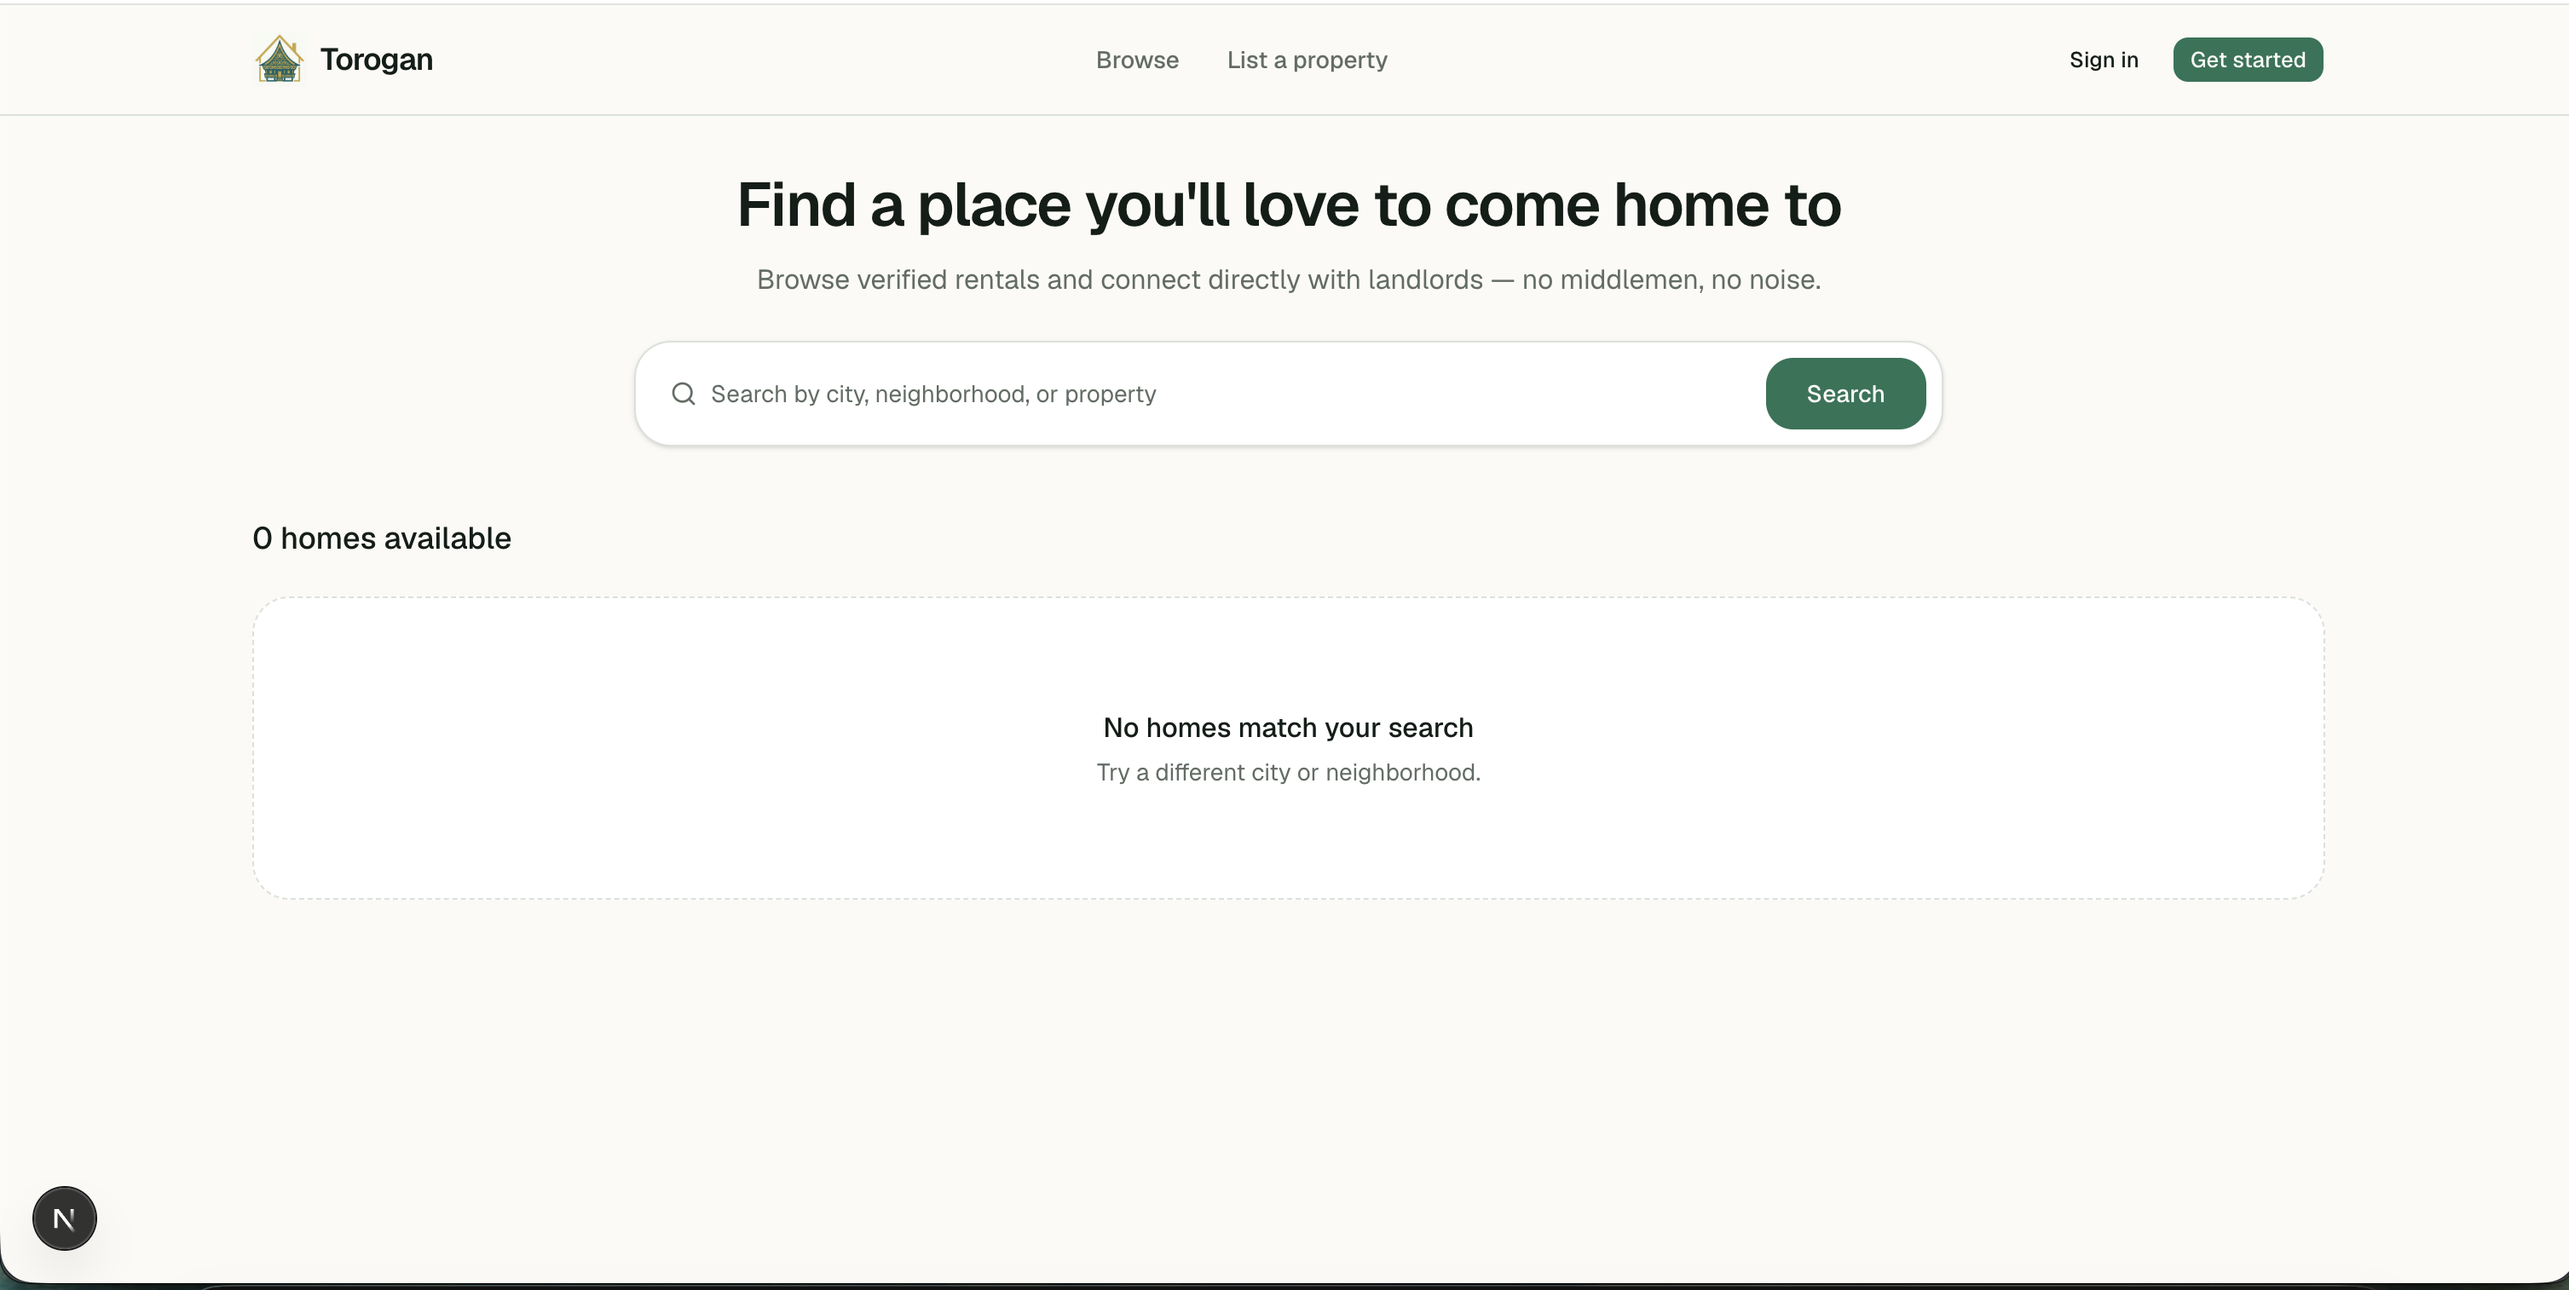
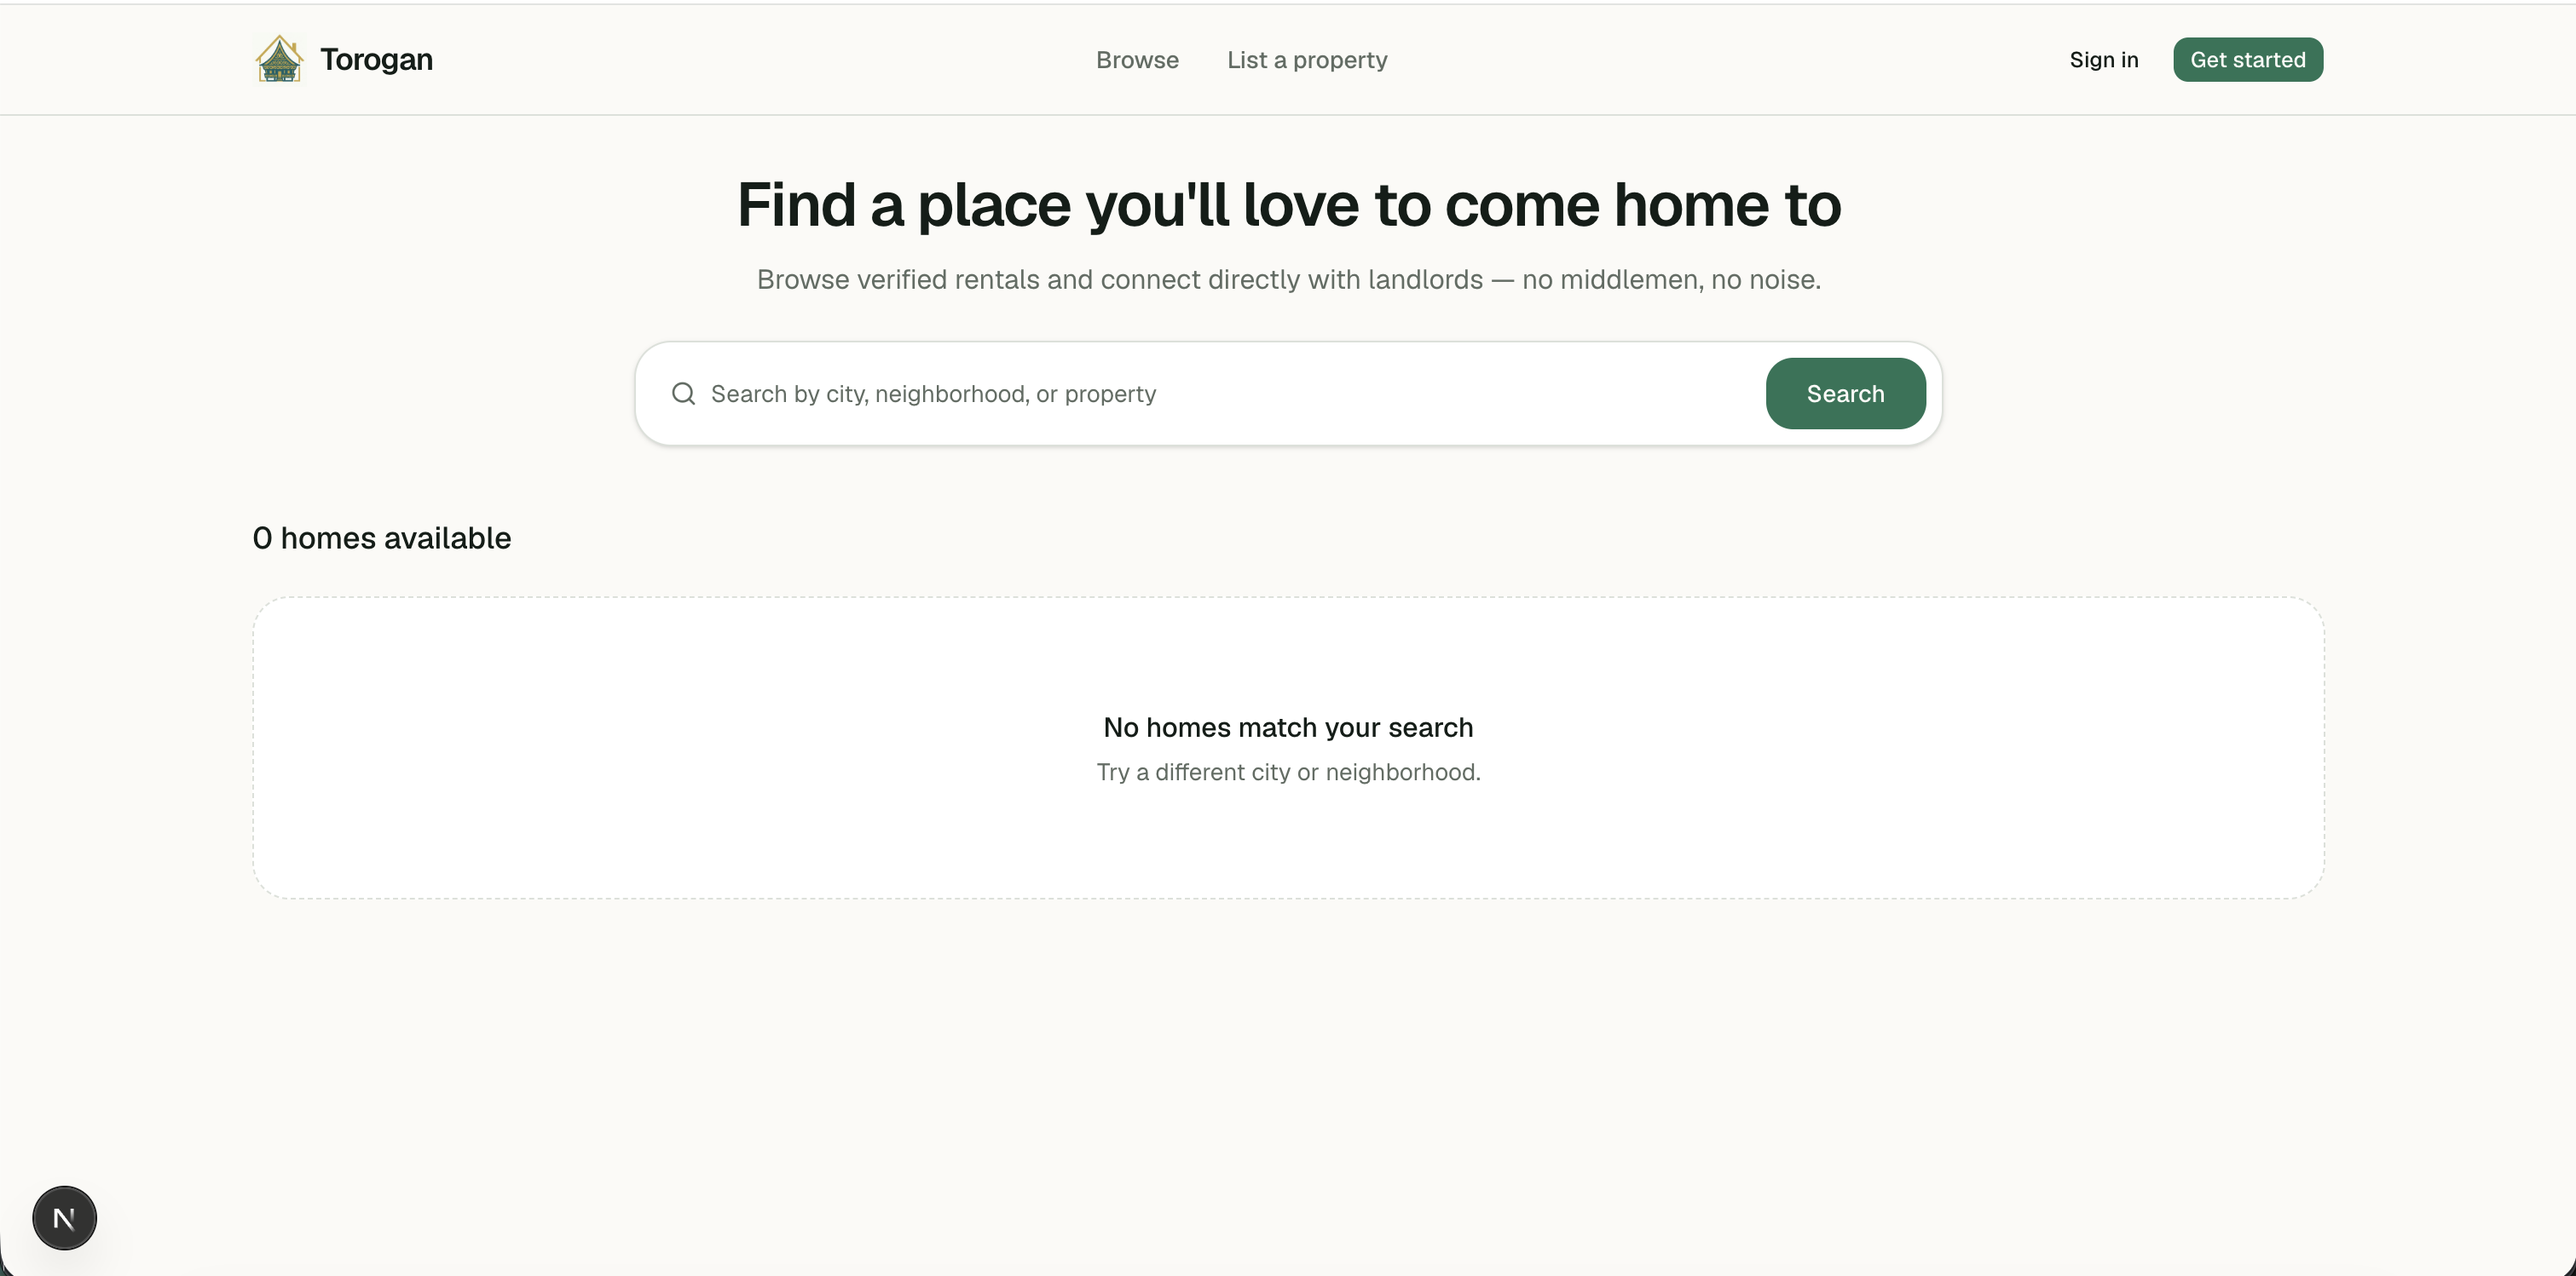
feat: updated projects and torogan photo

diff --git a/src/constants/projects.ts b/src/constants/projects.ts
@@ -15,7 +15,7 @@ export const projects: Project[] = [
     id: 1,
     name: "Torogan",
     description:
-      "An app that bridges people that are searching for a new home with property owners.",
+      "A rental-listing platform for the Philippines — browse verified rentals and connect directly with landlords, no middlemen.",
     githubLink: "https://github.com/sushiAlii/torogan-fe",
     liveLink: "https://www.torogan.com",
     image: "/torogan.png",
@@ -25,6 +25,30 @@ export const projects: Project[] = [
   },
   {
     id: 2,
+    name: "sushi-commit-js",
+    description:
+      "A blazingly fast, zero-overhead, AI-powered CLI utility that inspects your local git diff alterations and automatically crafts precise, structured Conventional Commits. Powered by the lightning-fast efficiency of Bun and Claude Haiku.",
+    githubLink: "https://github.com/sushiAlii/sushi-commit-js",
+    liveLink: "",
+    image: "",
+    technologies: ["Typescript"],
+    category: "CLI",
+    featured: false,
+  },
+  {
+    id: 3,
+    name: "Salsila",
+    description:
+      "Salsila derived from Arabic term 'سلسلة' which means chain, link, or connection. It is a web application that allows users to build and connect geneological trees. Currently, frontend is still pending to be implemented.",
+    githubLink: "https://github.com/sushiAlii/salsila-backend",
+    liveLink: "",
+    image: "",
+    technologies: ["Golang", "PostgreSQL"],
+    category: "Backend",
+    featured: false,
+  },
+  {
+    id: 4,
     name: "Blackscoop Inventory Management System",
     description:
       "A web application for managing inventory for Blackscoop (Saguiaran branch). It allows the users to view the inventory, add items, and update items.",
@@ -36,7 +60,7 @@ export const projects: Project[] = [
     featured: true,
   },
   {
-    id: 3,
+    id: 5,
     name: "Axiefy",
     description:
       "A hackathon project from Supabase, in collaboration with my friend, Carlo. It is a web application that allows Axie Infinity managers to manage their scholars' earnings.",
@@ -49,19 +73,7 @@ export const projects: Project[] = [
     featured: true,
   },
   {
-    id: 4,
-    name: "Salsila",
-    description:
-      "Salsila derived from Arabic term 'سلسلة' which means chain, link, or connection. It is a web application that allows users to build and connect geneological trees. Currently, frontend is still pending to be implemented.",
-    githubLink: "https://github.com/sushiAlii/salsila-backend",
-    liveLink: "",
-    image: "",
-    technologies: ["Golang", "PostgreSQL"],
-    category: "Backend",
-    featured: false,
-  },
-  {
-    id: 5,
+    id: 6,
     name: "Wave Portal",
     description:
       "A simple project creating and implementing a wave smart contract inside Rinkeby Testnet. Users can also leave a small message upon triggering wave.",
